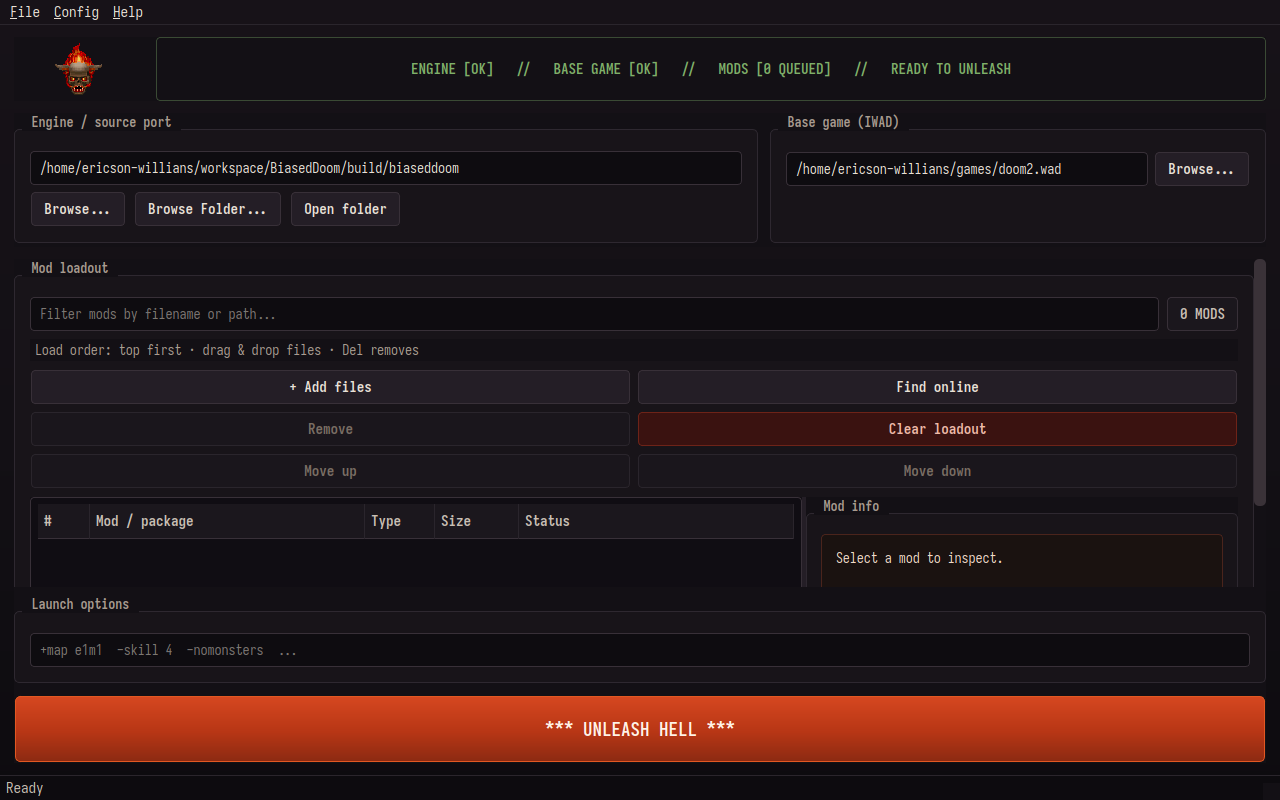
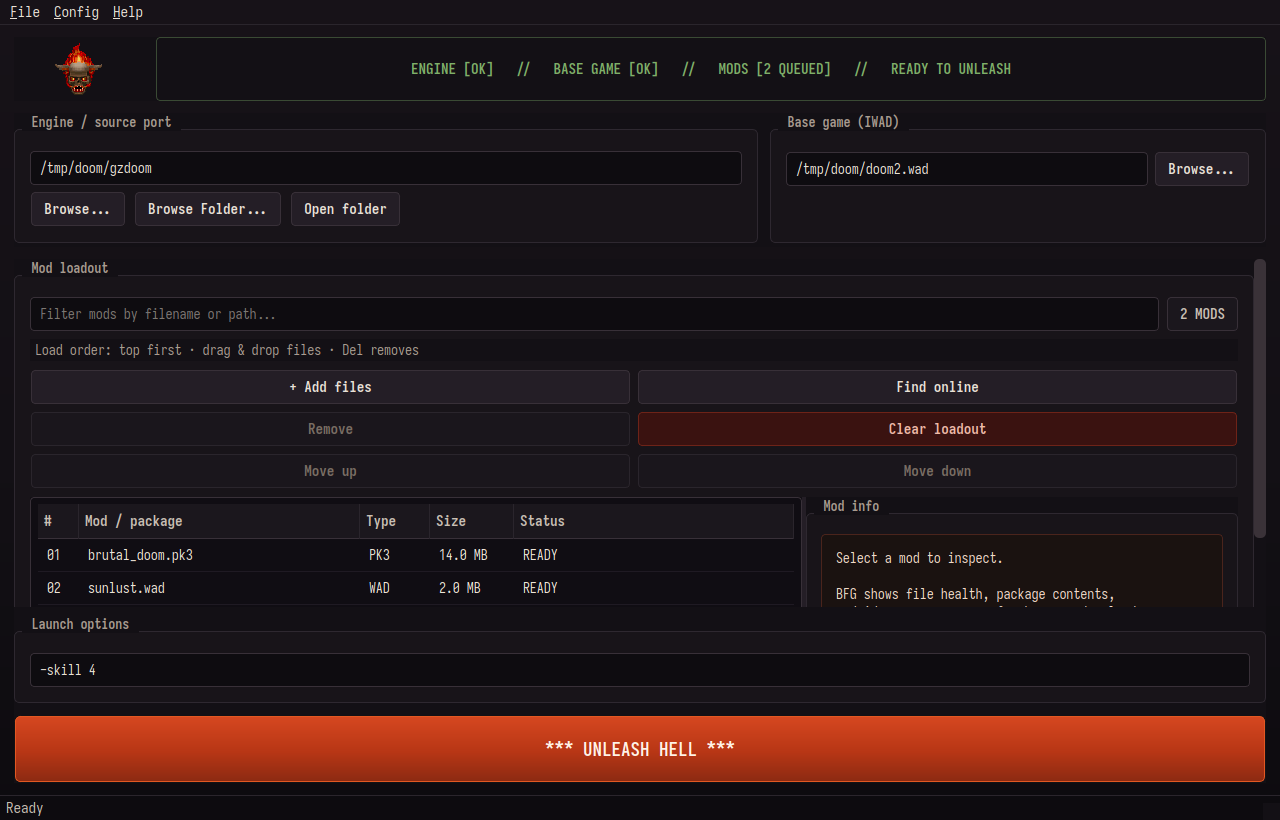
docs+ci: professional README, fresh screenshot, CI and release pipelines
- README: centered header with CI/release/python/platform/license badges,
  Windows-first 'Download the .exe' install path, requirements split for
  players vs developers, and CI/release documentation
- assets/screenshot.png: recaptured with sanitized demo data
- .github/workflows/ci.yml: pytest matrix on Ubuntu/Windows/macOS with
  Python 3.10 and 3.12
- .github/workflows/release.yml: tag-driven pipeline that builds a
  single-file Windows BFG.py.exe with PyInstaller (smoke-tested via
  --version), plus wheel/sdist, and publishes a GitHub Release

diff --git a/README.md b/README.md
@@ -1,17 +1,29 @@
+<div align="center">
+
 # BFG.py
+
+**A cross-platform Doom launcher and mod manager with a deliberately chunky
+1990s DOS interface.**
+
+[![CI](https://github.com/EricsonWillians/BFG.py/actions/workflows/ci.yml/badge.svg)](https://github.com/EricsonWillians/BFG.py/actions/workflows/ci.yml)
+[![Release](https://img.shields.io/github/v/release/EricsonWillians/BFG.py?display_name=tag&sort=semver)](https://github.com/EricsonWillians/BFG.py/releases/latest)
+[![Python 3.10+](https://img.shields.io/badge/python-3.10%2B-blue)](https://www.python.org/)
+[![Platforms](https://img.shields.io/badge/platform-Windows%20%7C%20Linux%20%7C%20macOS-lightgrey)](#download-windows)
+[![License: MIT](https://img.shields.io/badge/license-MIT-green)](LICENSE)
 
 ![BFG.py main window](./assets/screenshot.png)
 
-**BFG.py** is a cross-platform Doom launcher and mod manager with a deliberately
-chunky 1990s DOS interface. It combines source-port and IWAD setup, ordered mod
-loadouts, a managed local library, idgames discovery, preserved download
-metadata, and deterministic launch validation in one desktop application.
+</div>
+
+**BFG.py** combines source-port and IWAD setup, ordered mod loadouts, a managed
+local library, idgames discovery, preserved download metadata, and
+deterministic launch validation in one desktop application.
 
 | | |
 | --- | --- |
 | Current version | `3.0.0` |
 | Platforms | Windows, Linux, macOS |
-| Python | 3.9 or newer |
+| Python | 3.10 or newer (source installs only — the Windows `.exe` needs nothing) |
 | UI toolkit | PyQt5 |
 | Package | `bfg-py` |
 | License | MIT |
@@ -23,8 +35,9 @@ metadata, and deterministic launch validation in one desktop application.
 ## Contents
 
 - [Highlights](#highlights)
+- [Download (Windows)](#download-windows)
 - [Requirements](#requirements)
-- [Quick start](#quick-start)
+- [Run from source](#run-from-source)
 - [First launch](#first-launch)
 - [Using the mod loadout](#using-the-mod-loadout)
 - [Finding and downloading mods](#finding-and-downloading-mods)
@@ -95,19 +108,40 @@ metadata, and deterministic launch validation in one desktop application.
 - Automatically prioritizes core controls in shorter windows.
 - Pauses decorative animation when the browser needs the available space.
 
+## Download (Windows)
+
+The easiest way to run BFG.py — **no Python installation required**:
+
+1. Download **`BFG.py.exe`** from the
+   [latest release](https://github.com/EricsonWillians/BFG.py/releases/latest).
+2. Double-click it. That's it.
+3. Select your source port (for example GZDoom) and a legally obtained IWAD,
+   queue some mods, and press **UNLEASH HELL**.
+
+> **Note:** Windows SmartScreen may warn that the publisher is unknown because
+> the executable is not code-signed. Choose **More info → Run anyway**.
+
+Linux and macOS users can [run from source](#run-from-source) with a single
+command (`uv run bfg`).
+
 ## Requirements
 
-You need:
+### Players using the Windows executable
 
-1. Python 3.9 or newer.
-2. [`uv`](https://docs.astral.sh/uv/) for the recommended installation flow.
-3. A Doom source port, normally GZDoom or another executable that accepts
+1. The `BFG.py.exe` download from the latest release.
+2. A Doom source port, normally GZDoom or another executable that accepts
    `-iwad` and `-file` arguments.
-4. At least one legally obtained IWAD, such as `doom.wad`, `doom2.wad`,
+3. At least one legally obtained IWAD, such as `doom.wad`, `doom2.wad`,
    `plutonia.wad`, or `tnt.wad`.
-5. Internet access only if you want to search or download from remote sources.
+4. Internet access only if you want to search or download from remote sources.
 
-## Quick start
+### Developers running from source
+
+1. Python 3.10 or newer.
+2. [`uv`](https://docs.astral.sh/uv/) for the recommended installation flow.
+3. The same source port and IWAD requirements as above.
+
+## Run from source
 
 Clone the repository and install its locked dependencies:
 
@@ -534,6 +568,35 @@ uv run bfg-perf
 The layout and contrast helpers open Qt windows; close them to finish an
 interactive run. When changing browser behavior, verify both the supported
 minimum size (`960x680`) and a larger desktop window.
+
+### Continuous integration
+
+Every push and pull request to `master` runs the test suite on Linux, Windows,
+and macOS against the oldest and newest supported Python versions (3.10 and
+3.12). See [`.github/workflows/ci.yml`](.github/workflows/ci.yml).
+
+### Creating a release
+
+Releases are fully automated by
+[`.github/workflows/release.yml`](.github/workflows/release.yml). To publish a
+new version:
+
+1. Bump `version` in `pyproject.toml` and merge the change to `master`.
+2. Tag and push the release:
+
+   ```bash
+   git tag v3.1.0
+   git push origin v3.1.0
+   ```
+
+3. The pipeline builds the single-file Windows executable (`BFG.py.exe`,
+   packaged with PyInstaller and smoke-tested with `--version`), plus the
+   Python wheel and sdist, and attaches all of them to a new GitHub Release
+   with generated notes.
+
+Windows users then only need to download `BFG.py.exe` from the
+[latest release](https://github.com/EricsonWillians/BFG.py/releases/latest) —
+no Python installation required.
 
 ## Troubleshooting
 
